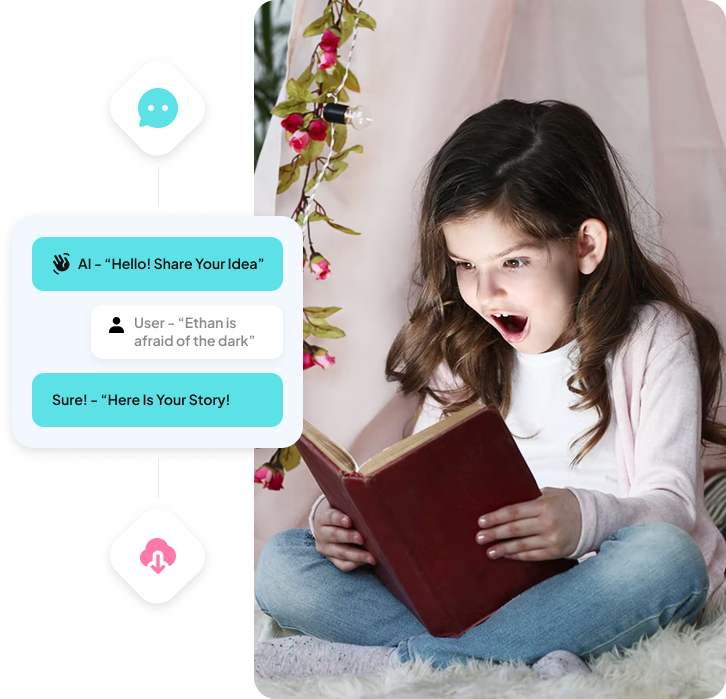
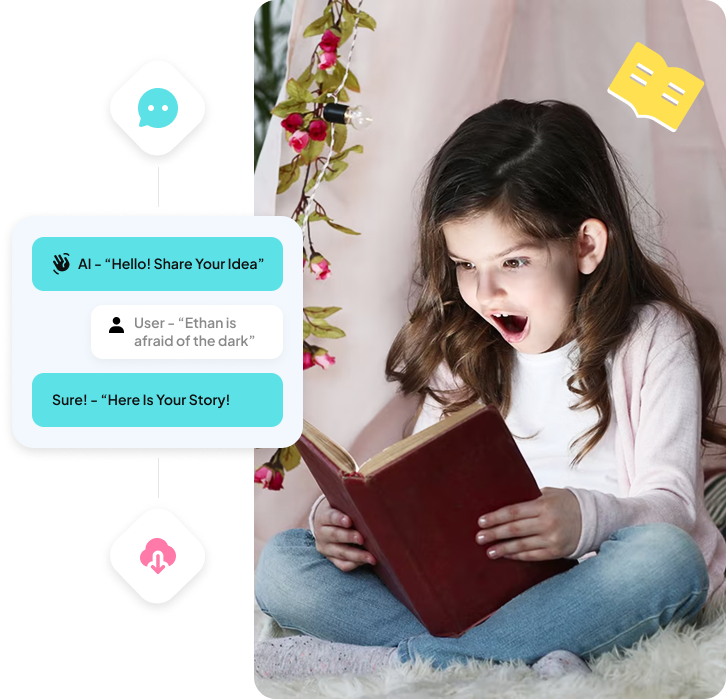
background fixed

Changed region(s): [[0.8182, 0.0601, 0.9697, 0.2103]]

diff --git a/client/src/components/Home.jsx b/client/src/components/Home.jsx
@@ -7,44 +7,55 @@ import storyNoiimg from "../assets/storyNoiimg.png";
 import whystory from "../assets/whystoryNoi-image.png";
 import listMark from "../assets/list-mark.png";
 import ideaimg from "../assets/idea-img.png";
+import topRight from "../assets/top-right.png";
+import topleft from "../assets/top-left.png"
+
 
 function Home() {
     return (
         <>
 
-            <div id='top' className="bg-[url('./assets/banner-section-bg.png')] bg-cover bg-no-repeat bg-center  w-full">
+            <div id='top' className="  w-full relative">
+
+                <div className="bg-[url('./assets/bg-particales.png')] bg-center bg-no-repeat">
+
+                    <img src={topleft} alt="" className='absolute top-0 left-0' />
+                    <img src={topRight} alt="" className='absolute top-0 right-0' />
 
 
+                    <section id='hero-section' className="container hero-section sm:pt-[200px] pt-[130px] sm:pb-[100px] pb-[50px] flex flex-wrap lg:flex-nowrap items-center gap-[70px]">
+                        <div className="content lg:max-w-[656px] md:mt-[75px] order-2 lg:order-1 w-full justify-items-center md:justify-items-normal">
 
-                <section id='hero-section' className="container hero-section sm:pt-[200px] pt-[130px] sm:pb-[100px] pb-[50px] flex flex-wrap lg:flex-nowrap items-center gap-[70px]">
-                    <div className="content lg:flex-1/2 md:mt-[75px] order-2 lg:order-1 w-full justify-items-center md:justify-items-normal">
+                            <h1 className='text-center md:text-left'>Let Gen - AI Turn Your Idea to a  <span className='text-[#FF8E00]'>kid’s Book!</span></h1>
+                            <h2 className='sm:mt-[59px] mt-[20px]'>Express your idea in a few words!</h2>
+                            <form className="input-group max-w-[646px] relative mt-[33px]">
+                                <input type="text" placeholder='Share your idea to start the book creation' className='bg-white rounded-[20px] w-full  py-[30px] pl-[30px] pr-[220px] focus:outline-none  ' />
+                                <button type='submit' className='input-btn btn py-[20px] px-[41px] bg-[#FF8E00] rounded-[12px] absolute right-[9px] top-[10px] !text-white'> create Story</button>
+                            </form>
 
-                        <h1 className='text-center md:text-left'>Let Gen - AI Turn Your Idea to a  <span className='text-[#FF8E00]'>kid’s Book!</span></h1>
-                        <h2 className='sm:mt-[59px] mt-[20px]'>Express your idea in a few words!</h2>
-                        <form className="input-group max-w-[646px] relative mt-[33px]">
-                            <input type="text" placeholder='Share your idea to start the book creation' className='bg-white rounded-[20px] w-full  py-[33px] pl-[30px] pr-[220px] focus:outline-none  ' />
-                            <button type='submit' className='input-btn btn py-[24px] px-[41px] bg-[#FF8E00] rounded-[12px] absolute right-[9px] top-[10px] !text-white'> create Story</button>
-                        </form>
+                            <div className='flex w-full sm:gap-[113px] justify-around md:justify-normal  sm:mt-[96px] mt-[50px]'>
 
-                        <div className='flex w-full sm:gap-[113px] justify-around md:justify-normal  sm:mt-[96px] mt-[50px]'>
+                                <div >
+                                    <h6>Downloads</h6>
+                                    <h1 className='mt-[16px]'>12 000</h1>
+                                </div>
 
-                            <div >
-                                <h6>Downloads</h6>
-                                <h1>12 000</h1>
+                                <div>
+                                    <h6>Assessment</h6>
+                                    <h1 className='flex items-center gap-[6px] mt-[16px]'>4.8 <img src={star} alt="" /> </h1>
+                                </div>
+
                             </div>
+                        </div>
+                        <div className="image w-full justify-items-center lg:flex-1/2 order-1 lg:order-2 ">
 
-                            <div>
-                                <h6>Assessment</h6>
-                                <h1 className='flex items-center gap-[6px]'>4.8 <img src={star} alt="" /> </h1>
-                            </div>
+                            <img src={bannerimg} alt="" className='w-[100%] h-[auto]' />
 
                         </div>
-                    </div>
-                    <div className="image w-full justify-items-center lg:flex-1/2 order-1 lg:order-2 ">
+                    </section>
+                </div>
 
-                        <img src={bannerimg} alt="" />
-                    </div>
-                </section>
+
 
             </div>
 
@@ -141,7 +152,7 @@ function Home() {
 
 
 
-           
+
 
 
 

diff --git a/client/src/components/Navigation.jsx b/client/src/components/Navigation.jsx
@@ -46,7 +46,7 @@ function Navigation() {
 
             <div className='container flex justify-between items-center'>
                 <Link to='top' smooth={true} duration={500} className='cursor-pointer'>
-                    <img src={logo} alt="Logo" className="sm:w-[150px] w-[100px]" />
+                    <img src={logo} alt="Logo" className="sm:w-[100%] h-auto w-[100px]" />
                 </Link>
 
 
@@ -74,9 +74,9 @@ function Navigation() {
                         </li>
                         <RouterLink
                             to="/login"
-                            className="btn ml-[80px] font-semibold px-[45px] py-[18px] border-2 border-black rounded-[12px] border-solid "
+                            className="btn ml-[30px] font-semibold px-[44px] py-[12px] border-2 border-black rounded-[12px] border-solid "
                         >
-                            <button type="button">Login</button>
+                            <button type="button">Log In</button>
                         </RouterLink>
                     </ul>
                 </nav>
@@ -122,9 +122,9 @@ function Navigation() {
                         </li>
                         <RouterLink
                             to="/login"
-                            className="btn font-semibold px-[45px] py-[18px] border-2 border-black rounded-[12px] border-solid " onClick={()=> setOpen(!isOpen)}
+                            className="btn font-semibold px-[45px] py-[12px] border-2 border-black rounded-[12px] border-solid " onClick={()=> setOpen(!isOpen)}
                         >
-                            <button type="button">Login</button>
+                            <button type="button">Log In</button>
                         </RouterLink>
                     </ul>
                 </nav>

diff --git a/client/src/components/Story.jsx b/client/src/components/Story.jsx
@@ -1,0 +1,16 @@
+import React from 'react'
+
+function story() {
+    return (
+        <>
+            <div className="bg-[url('./assets/create-story-bg.png')] bg-no-repeat bg-center bg-cover ">
+
+                <div><p>Lorem ipsum dolor sit amet, consectetur adipisicing elit. Consectetur molestiae repudiandae dolorem sint officiis esse repellat illum ratione voluptate. Eveniet vel fugit et ipsa est tempora ipsum facilis sunt laudantium. Lorem ipsum dolor, sit amet consectetur adipisicing elit. Omnis, ipsum adipisci! Blanditiis dolores id maxime natus odit corporis fugit officia omnis esse reiciendis nam ipsam, optio quam unde, non sequi? Lorem ipsum dolor sit amet consectetur adipisicing elit. Illo, cumque animi. Numquam porro, quisquam atque placeat earum accusantium, unde, alias ea fugiat architecto excepturi adipisci! Rem pariatur minus atque veniam. Lorem ipsum, dolor sit amet consectetur adipisicing elit. Ullam laudantium laborum quam quasi pariatur fugiat eaque, ipsam rem qui at odio deserunt aliquam blanditiis eveniet neque. Labore debitis unde aliquam! Lorem ipsum dolor sit amet consectetur adipisicing elit. Tempora id, sint quia nisi molestias fuga, similique quae aliquam, odit fugit quo architecto commodi praesentium quaerat? Facere dolor saepe est a!</p></div>
+
+
+            </div>
+        </>
+    )
+}
+
+export default story

diff --git a/client/src/index.css b/client/src/index.css
@@ -7,6 +7,7 @@ body {
     padding: 0;
     font-family: "Plus Jakarta Sans", sans-serif;
     position: relative;
+    
 }
 
 .container {
@@ -54,6 +55,13 @@ p {
     line-height: 35px;
 }
 
+
+#top {
+    background: linear-gradient(134deg, #FEE051 0%, rgba(254, 224, 81, 0.60) 51.92%, #FEE051 97.91%);
+    overflow: hidden !important;
+    
+}
+
 .btn {
     color: #000;
 
@@ -79,6 +87,7 @@ input {
     font-style: normal;
     font-weight: 500;
     line-height: normal;
+    box-shadow: 0px 4px 12px 0px rgba(0, 0, 0, 0.12);
 }
 
 nav a,
@@ -142,14 +151,15 @@ nav a:hover {
     p {
         font-size: 12px;
         line-height: 18px;
-       
+
     }
 
     .storNoi-ul li {
         font-size: 12px;
         line-height: 18px;
     }
-    .storNoi-ul li img{
+
+    .storNoi-ul li img {
         margin-top: 5px;
         width: 14px;
         height: 10px;

diff --git a/client/src/App.jsx b/client/src/App.jsx
@@ -5,6 +5,7 @@ import Errorpage from './components/Errorpage';
 import Login from './components/Login';
 import { BrowserRouter, Routes, Route } from "react-router-dom";
 import Layout from './components/Layout';
+import Story from './components/Story'
 
 function App() {
 
@@ -19,8 +20,10 @@ function App() {
           <Route path="/" element={<Layout />}>
             <Route index element={<Home />} />
             <Route path='/login' element={<Login />} />
+            <Route path='/story' element={<Story />} />
           </Route>
 
+          
 
           <Route path='*' element={<Errorpage />} />
 

diff --git a/client/index.html b/client/index.html
@@ -5,12 +5,13 @@
   <meta charset="UTF-8" />
   <link rel="icon" type="image/svg+xml" href="/vite.svg" />
   <meta name="viewport" content="width=device-width, initial-scale=1.0" />
-  <title>Vite + React</title>
+  <title>StoryNoi</title>
   <link href="/client/src/index.css" rel="stylesheet">
   <link rel="preconnect" href="https://fonts.googleapis.com">
   <link rel="preconnect" href="https://fonts.gstatic.com" crossorigin>
   <link href="https://fonts.googleapis.com/css2?family=Plus+Jakarta+Sans:ital,wght@0,200..800;1,200..800&display=swap"
     rel="stylesheet">
+
 </head>
 
 <body>

diff --git a/client/src/components/Footer.jsx b/client/src/components/Footer.jsx
@@ -1,6 +1,7 @@
 import React from 'react';
 import logo from "../assets/footer-logo.png";
 
+
 function Footer() {
     return (
         <>
@@ -9,6 +10,8 @@ function Footer() {
                     <img src={logo} alt="" className="mx-auto sm:w-auto w-[120px] h-[auto]" />
 
                     <p className=' !text-white'>Storynoi © 2023. All Rights Reserved.</p>
+
+                   
                 </div>
 
             </div>

diff --git a/Readme.md b/Readme.md
@@ -1,3 +1,8 @@
 Demo: https://story-noi-theta.vercel.app/
 
 figma: https://www.figma.com/design/iPC3jY5V19U8LLuSQFF1VW/Story-Noi-Task?node-id=0-1&p=f&m=dev
+
+
+moonshot : 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
+
+gemini: 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
